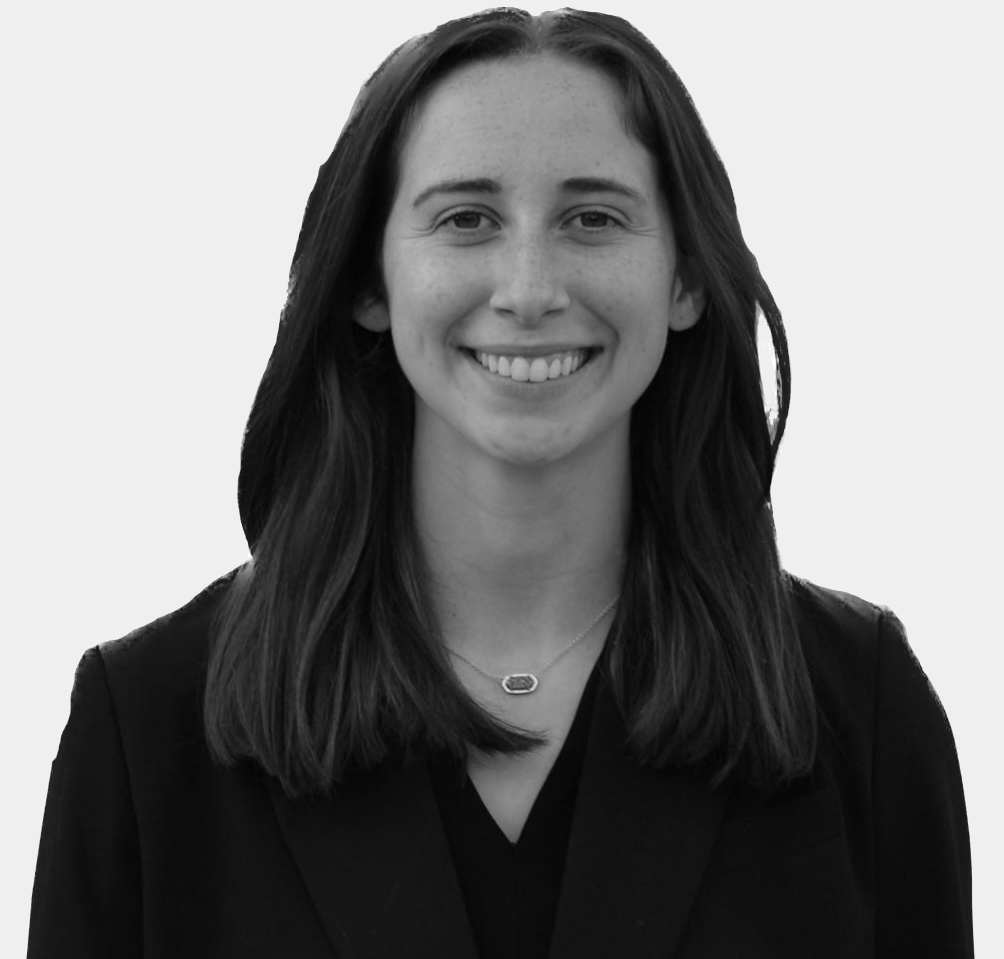
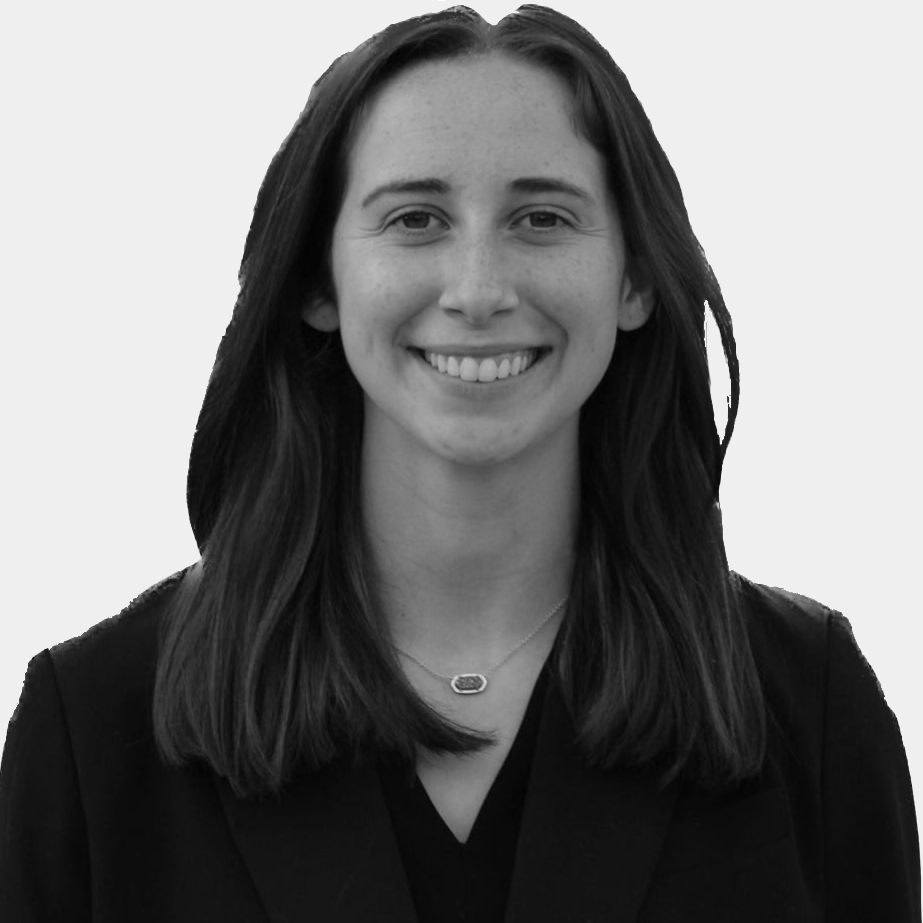
Fixed Abby photo. Added Francesco.

diff --git a/people.html b/people.html
@@ -250,6 +250,21 @@ http://themeforest.net/user/owwwlab/
                   </div>
 
                   <div class="col-xs-6 col-md-4">
+                    <div class="vc-card boxed"><img src="assets/img/people/francesco.png" alt="people">
+                      <div class="vc-card-wrapper">
+                        <div class="title">Francesco Antici</div>
+                        <div class="subtitle">Visiting Scholar</div>
+                      </div>
+                      <div class="links"><a href="https://www.linkedin.com/in/francesco-antici-0b71ab1bb/" target="_blank"
+                          data-original-title="Linkedin profile" data-toggle="tooltip"><i
+                            class="oli oli-linkedin"></i></a><a href="https://scholar.google.com/citations?user=_RndIPoAAAAJ&hl=en" target="_blank"
+                            data-toggle="tooltip" data-original-title="Google Scholar"><i
+                              class="oli oli-user_male_circle"></i></a>
+                      </div>
+                    </div>
+                  </div>
+
+                  <div class="col-xs-6 col-md-4">
                     <div class="vc-card boxed"><img src="assets/img/people/ian.jpg" alt="people">
                       <div class="vc-card-wrapper">
                         <div class="title">Ian Lumsden</div>
